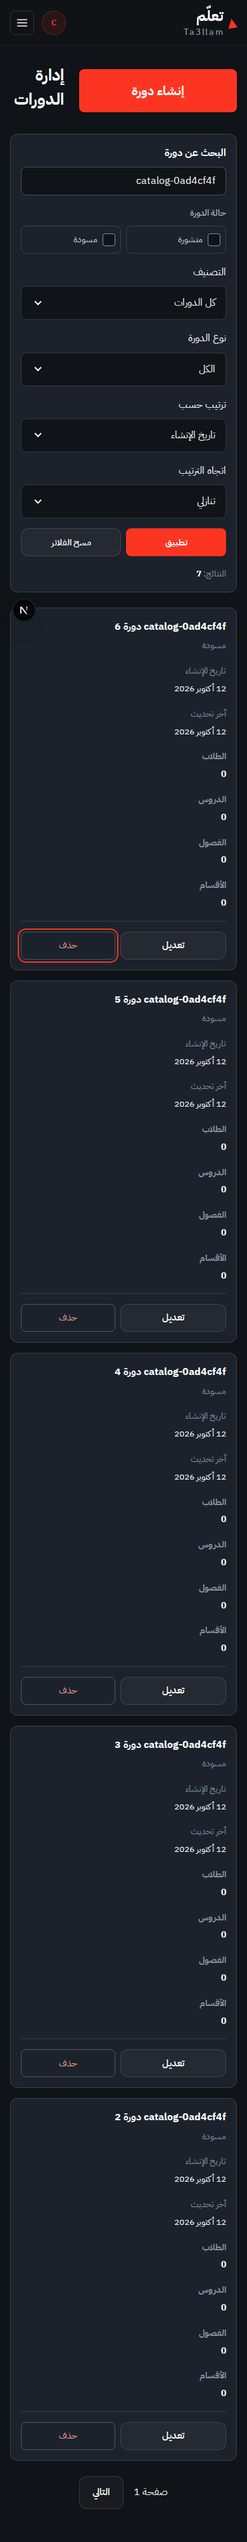
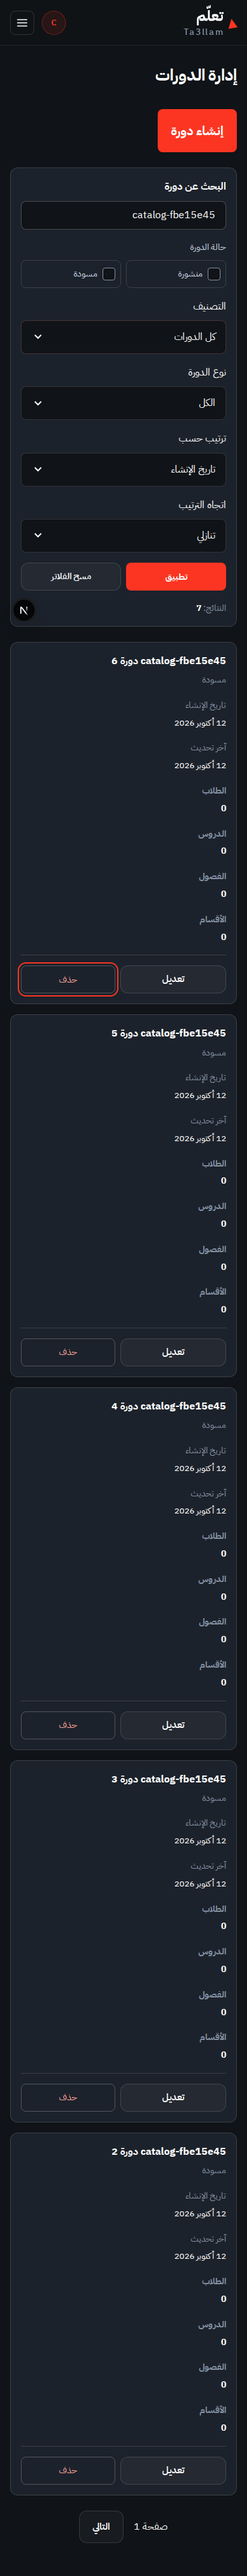
Polish responsive course management controls

diff --git a/modules/styles/admin.css b/modules/styles/admin.css
@@ -118,3 +118,10 @@ body:has(.lms-admin-dialog[open]) { overflow: hidden; }
 @media (max-width: 480px) { .lms-course-filter-selects { grid-template-columns: minmax(0,1fr); } }
 
 .lms-course-delete > button { width: 100%; }
+
+@media (max-width: 480px) {
+  .lms-page-heading[data-actions-first] { flex-wrap: wrap; justify-content: flex-start; }
+  .lms-page-heading[data-actions-first] > div { order: -1; flex-basis: 100%; }
+  .lms-page-heading[data-actions-first] > .btn-primary { width: auto; }
+}
+.lms-course-editor-tabs a[aria-current="page"] { color: var(--text-accent-readable); border-color: var(--primary-red); background: var(--primary-red-subtle); }

diff --git a/modules/components/ui/page-heading.tsx b/modules/components/ui/page-heading.tsx
@@ -15,7 +15,7 @@ export default function PageHeading({
 }) {
   const Heading = level === 2 ? "h2" : "h1";
   return (
-    <div className="lms-page-heading" data-reveal>
+    <div className="lms-page-heading" data-reveal data-actions-first={actionsFirst || undefined}>
       {actionsFirst && children}
       <div>
         {eyebrow && <p className="lms-heading-context">{eyebrow}</p>}

diff --git a/DESIGN_REPRODUCTION_PROMPT.md b/DESIGN_REPRODUCTION_PROMPT.md
@@ -8544,7 +8544,7 @@ export default function ImageUpload({ target, labels, onUploaded }: { target: Im
 
 ### File: `modules/components/ui/page-heading.tsx`
 
[2 lines of base64/hex data omitted]
 
 ```tsx
 export default function PageHeading({
@@ -8564,7 +8564,7 @@ export default function PageHeading({
 }) {
   const Heading = level === 2 ? "h2" : "h1";
   return (
-    <div className="lms-page-heading" data-reveal>
+    <div className="lms-page-heading" data-reveal data-actions-first={actionsFirst || undefined}>
       {actionsFirst && children}
       <div>
         {eyebrow && <p className="lms-heading-context">{eyebrow}</p>}
@@ -13797,7 +13797,7 @@ SHA-256: `e9b88c82469e171452b48182347dd8aa9c7d26d19abba52070eabed534f179aa`
 
 ### File: `modules/styles/admin.css`
 
[2 lines of base64/hex data omitted]
 
 ```css
 /* Account records share one semantic table; narrow layouts reflow each record. */
@@ -13920,6 +13920,13 @@ body:has(.lms-admin-dialog[open]) { overflow: hidden; }
 @media (max-width: 480px) { .lms-course-filter-selects { grid-template-columns: minmax(0,1fr); } }
 
 .lms-course-delete > button { width: 100%; }
+
+@media (max-width: 480px) {
+  .lms-page-heading[data-actions-first] { flex-wrap: wrap; justify-content: flex-start; }
+  .lms-page-heading[data-actions-first] > div { order: -1; flex-basis: 100%; }
+  .lms-page-heading[data-actions-first] > .btn-primary { width: auto; }
+}
+.lms-course-editor-tabs a[aria-current="page"] { color: var(--text-accent-readable); border-color: var(--primary-red); background: var(--primary-red-subtle); }
 ```
 
 ### File: `modules/styles/analytics.css`
@@ -29018,7 +29025,7 @@ module.exports=async function analyticsChecks({admin,provision,anonymous,verify,
 
 ### File: `tests/backend/admin-course-management-browser.cjs`
 
[2 lines of base64/hex data omitted]
 
 ```typescript
 /* eslint-disable @typescript-eslint/no-require-imports -- Isolated browser acceptance checks. */
@@ -29047,7 +29054,7 @@ module.exports=async({manager,verify,url,prefix,slugs})=>{
    await row.getByRole('button',{name:'حذف',exact:true}).click();const dialog=page.getByRole('dialog',{name:'حذف الدورة',exact:true});await expect(dialog).toBeVisible();
    const box=await dialog.boundingBox();verify(Math.abs(box.x+box.width/2-width/2)<2 && Math.abs(box.y+box.height/2-500)<2,`Course delete dialog centered at ${width}px (${JSON.stringify(box)})`);
    await page.keyboard.press('Escape');await expect(dialog).toHaveCount(0);await expect(row.getByRole('button',{name:'حذف',exact:true})).toBeFocused();
-   if(width===390||width===1440){await page.evaluate(()=>window.scrollTo(0,0));await page.screenshot({path:`docs/evidence/backend/admin-courses-${width}.png`,fullPage:true});}
+   if(width===390||width===1440){await page.getByRole("table").scrollIntoViewIfNeeded();await expect(page.locator(".lms-admin-table-wrap")).toHaveCSS("opacity","1");await page.evaluate(()=>window.scrollTo(0,0));await page.screenshot({path:`docs/evidence/backend/admin-courses-${width}.png`,fullPage:true});}
   }
   await page.setViewportSize({width:1440,height:1000});
   await page.goto(url+'/admin/dashboard/courses/'+slugs[0]);
@@ -29160,7 +29167,7 @@ module.exports = async ({ admin, provision, anonymous, verify, url }) => {
 
 ### File: `tests/backend/admin-courses-live.cjs`
 
[2 lines of base64/hex data omitted]
 
 ```typescript
 /* eslint-disable @typescript-eslint/no-require-imports -- Read-only production acceptance. */
@@ -29177,7 +29184,8 @@ const {chromium,expect}=require('@playwright/test'),fs=require('node:fs');proces
   await page.getByRole('searchbox',{name:'البحث عن دورة',exact:true}).fill(records.courses[0].title);await page.getByRole('button',{name:'تطبيق',exact:true}).click();await expect(page.locator('tbody tr')).toHaveCount(1);checks.push('Search finds exact course');
   for(const width of [320,390,768,1440,1920]){
    await page.setViewportSize({width,height:1000});expect(await page.evaluate(()=>document.documentElement.scrollWidth<=innerWidth)).toBe(true);expect(await page.locator('tbody tr').count()).toBeLessThanOrEqual(5);checks.push(`Responsive ${width}px`);
-   await page.evaluate(()=>window.scrollTo(0,0));if(width===390||width===1440)await page.screenshot({path:`docs/evidence/backend/admin-courses-live-${width}.png`,fullPage:true});
+   if(width<=390){expect(await page.locator('.lms-page-heading').evaluate(element=>element.querySelector('h1').getBoundingClientRect().bottom<=element.querySelector('.btn-primary').getBoundingClientRect().top)).toBe(true);checks.push(`Stacked mobile heading ${width}px`);}
+   await page.getByRole("table").scrollIntoViewIfNeeded();await expect(page.locator(".lms-admin-table-wrap")).toHaveCSS("opacity","1");await page.evaluate(()=>window.scrollTo(0,0));if(width===390||width===1440)await page.screenshot({path:`docs/evidence/backend/admin-courses-live-${width}.png`,fullPage:true});
   }
   await page.goto(origin+'/admin/dashboard/courses/new');await expect(page.getByLabel('رابط الدورة',{exact:true})).toBeVisible();checks.push('Create draft screen accessible');
   await page.goto(origin+'/admin/dashboard/courses/'+records.courses[0].slug);await expect(page.getByLabel('اسم الدورة',{exact:true})).toBeVisible();expect(await page.getByLabel('رابط فيديو الدرس',{exact:true}).count()).toBe(0);checks.push('Overview editor excludes lesson details');

diff --git a/WORK_CHECKPOINT.md b/WORK_CHECKPOINT.md
@@ -4,7 +4,7 @@ Last updated: **2026-10-12**. This file records the actual implementation and ve
 
 ## Latest checkpoint — course management table and separate content page
 
-- Replaced course cards with the Users-style table/cards: name/status, creation/update dates, student/lesson/chapter/section counts and edit/delete actions. Added combined search, publication/category/delivery filters and creation/update/student sorting; five records per page with persistent filter pagination. Added top-right Create Course action and a validated draft form.
+- Replaced course cards with the Users-style table/cards: name/status, creation/update dates, student/lesson/chapter/section counts and edit/delete actions. Added combined search, publication/category/delivery filters and creation/update/student sorting; five records per page with persistent filter pagination. Added top-right Create Course action and a validated draft form. Narrow-screen headings stack above the action; active editor tabs use the existing accent treatment.
 - Kept course metadata/media editing on its overview and moved chapter/section/lesson details and video editing to the content tab. Optional sections group canonical lesson IDs; they are distinct from chapters. Curriculum creation/reordering remains a future authoring stage. Shared pagination now serves Users, Courses and phone requests; generic search-parameter conversion is shared.
 - Added guarded admin RPCs, insert RLS, search/date indexes and actual new-course/update timestamps. Legacy historical dates remain unknown. Same-origin confirmed deletion is blocked for courses with subscriptions. Hosted migration applied without seeds, price or content changes.
 - Verified three contract unit cases, 87 isolated management API/browser checks, 190 existing backend regression checks, responsive layouts/dialogs at 320–1920px, lint, architecture (618 files / no violations), production build/TypeScript and secret scan. Local and hosted database advisors and local schema lint passed. Application commit `f6f00e5` is deployed. Twelve read-only hosted checks passed at `https://ta3allam.vercel.app`, including guest denial, eight columns, database counts, search, responsive layouts, draft screen and separate content route; zero browser errors. Live evidence: `docs/evidence/backend/admin-courses-live.json`. Documentation: `docs/ADMIN_COURSE_MANAGEMENT.md`; focused screenshots: `docs/evidence/backend/admin-courses-390.png` and `admin-courses-1440.png`.
